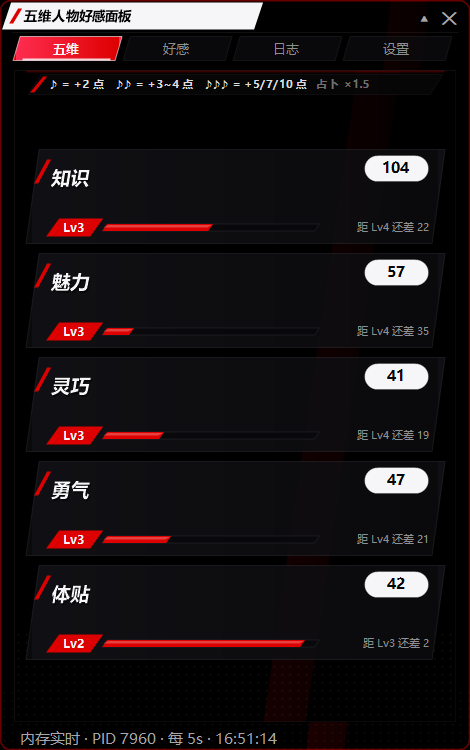
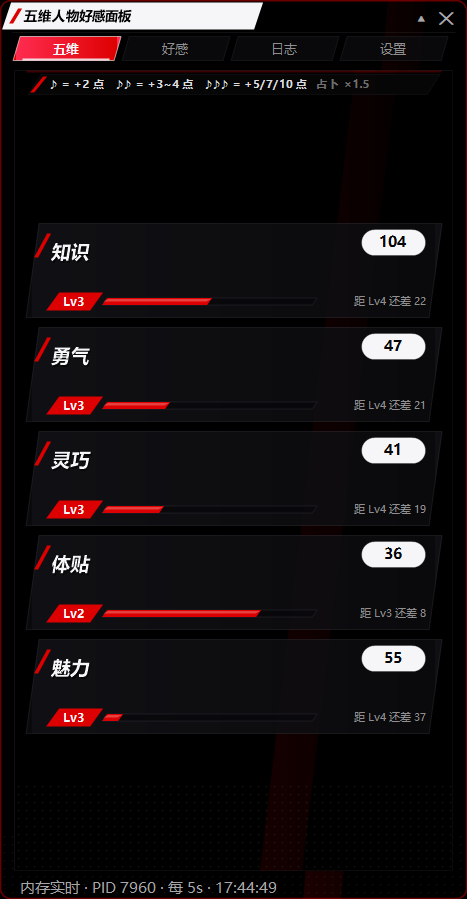
五维按游戏菜单顺序显示（知识/勇气/灵巧/体贴/魅力）
- 内存顺序是 [知识, 魅力, 灵巧, 勇气, 体贴]，与菜单顺序不同
- 新增 GameTables.StatDisplayOrder = {0,3,2,4,1}，只作用于 OnPaint 的排列
- 读数据/阈值/等级仍按内存下标，不重新引入错位
- Python 三份脚本同步加 ORDER 表；顺带修正 p5r_stats_save.py 里 NAMES_EN 的旧顺序
- 文档补充说明：显示顺序与数据下标分离的做法

diff --git a/tools/p5r_stats_save.py b/tools/p5r_stats_save.py
@@ -16,7 +16,10 @@ STAT_OFFSET = 0x139E0
 
 # 内存/存档顺序：[知识, 魅力, 灵巧, 勇气, 体贴]
 NAMES = ["知识", "魅力", "灵巧", "勇气", "体贴"]
-NAMES_EN = ["Knowledge", "Kindness", "Proficiency", "Guts", "Charm"]
+NAMES_EN = ["Knowledge", "Charm", "Proficiency", "Guts", "Kindness"]
+# 游戏菜单里的显示顺序（知识/勇气/灵巧/体贴/魅力），值为NAMES的下标。
+# 只影响打印排列，读数据仍按内存下标。
+ORDER = [0, 3, 2, 4, 1]
 THRESHOLDS = [
     [0, 34, 82, 126, 192],
     [0, 6, 52, 92, 132],
@@ -113,13 +116,14 @@ def main():
     print()
     print("P5R 五维查看器   存档目录：" + root)
     print("=" * 96)
-    header = f"{'存档':<8}{'保存时间':<14}" + "".join(f"{c:<14}" for c in NAMES)
+    header = f"{'存档':<8}{'保存时间':<14}" + "".join(f"{NAMES[i]:<14}" for i in ORDER)
     print(header)
     print("-" * 96)
     for r in rows:
         t = time.strftime("%m-%d %H:%M", time.localtime(r["mtime"]))
         line = f"{r['slot']:<8}{t:<14}"
-        for i, v in enumerate(r["values"]):
+        for i in ORDER:
+            v = r["values"][i]
             lv = level_of(i, v)
             line += f"{v}(Lv{lv})".ljust(14)
         print(line)
@@ -129,7 +133,8 @@ def main():
     latest = rows[0]
     print()
     print(f"最新存档 {latest['slot']} 详细：")
-    for i, v in enumerate(latest["values"]):
+    for i in ORDER:
+        v = latest["values"][i]
         print(f"  {NAMES[i]}({NAMES_EN[i]})  {v:3d} 点   Lv{level_of(i, v)}   {next_gap(i, v)}")
     print()
 
@@ -142,12 +147,14 @@ def main():
         for r in rows:
             t = time.strftime("%Y-%m-%d %H:%M", time.localtime(r["mtime"]))
             line = f"{r['slot']:<8}{t:<18}"
-            for i, v in enumerate(r["values"]):
+            for i in ORDER:
+                v = r["values"][i]
                 line += f"{v}(Lv{level_of(i, v)})".ljust(14)
             f.write(line + "\n")
         f.write("-" * 96 + "\n\n")
         f.write(f"最新存档 {latest['slot']} 详细：\n")
-        for i, v in enumerate(latest["values"]):
+        for i in ORDER:
+            v = latest["values"][i]
             f.write(f"  {NAMES[i]}({NAMES_EN[i]})  {v:3d} 点   Lv{level_of(i, v)}   {next_gap(i, v)}\n")
     print(f"报告已写入：{out}")
 

diff --git a/tools/p5r_stats_coop.py b/tools/p5r_stats_coop.py
@@ -25,6 +25,9 @@ COOP_COUNT = 26
 # 内存/存档顺序：[知识, 魅力, 灵巧, 勇气, 体贴]
 NAMES = ["知识", "魅力", "灵巧", "勇气", "体贴"]
 NAMES_EN = ["Knowledge", "Charm", "Proficiency", "Guts", "Kindness"]
+# 游戏菜单里的显示顺序（知识/勇气/灵巧/体贴/魅力），值为NAMES的下标。
+# 只影响打印排列，读数据仍按内存下标。
+ORDER = [0, 3, 2, 4, 1]
 THRESHOLDS = [
     [0, 34, 82, 126, 192],
     [0, 6, 52, 92, 132],
@@ -198,7 +201,8 @@ def main():
     print("=" * 78)
 
     print("\n【五维】")
-    for i, v in enumerate(cur["stats"]):
+    for i in ORDER:
+        v = cur["stats"][i]
         print(f"  {NAMES[i]} {NAMES_EN[i]:<12} {v:4d} 点   Lv{level_of(i, v)}   {gap_of(i, v)}")
 
     print("\n【Coop 羁绊】")
@@ -235,7 +239,8 @@ def main():
         f.write(f"P5R 存档 {cur['slot']}  " +
                 time.strftime("%Y-%m-%d %H:%M", time.localtime(cur["mtime"])) + "\n")
         f.write("=" * 78 + "\n\n【五维】\n")
-        for i, v in enumerate(cur["stats"]):
+        for i in ORDER:
+            v = cur["stats"][i]
             f.write(f"  {NAMES[i]} {NAMES_EN[i]:<12} {v:4d} 点   Lv{level_of(i, v)}   {gap_of(i, v)}\n")
         f.write("\n【Coop 羁绊】\n")
         for cid, rank, aff in coop:

diff --git a/tools/p5r_panel.py b/tools/p5r_panel.py
@@ -42,6 +42,9 @@ except Exception:                                    # pragma: no cover
 # ────────────────────────────────────────────────────────── 基础数据 ──
 # 内存/存档顺序：[知识, 魅力, 灵巧, 勇气, 体贴]
 STAT_NAMES = ["知识", "魅力", "灵巧", "勇气", "体贴"]
+# 游戏菜单里的显示顺序（知识/勇气/灵巧/体贴/魅力），值为上面名字表的下标。
+# 只影响打印排列，读数据仍按内存下标。
+STAT_ORDER = [0, 3, 2, 4, 1]
 STAT_EN = ["Knowledge", "Charm", "Proficiency", "Guts", "Kindness"]
 
 # 每级起点（0 级起点固定为 0），Lv1~Lv5
@@ -372,7 +375,7 @@ def render(stats, coop, headline, subnote, footer_lines, deltas=None, coop_delta
     # ── 五 维 ──
     total_lv = sum(stat_level(i, stats[i]) for i in range(5))
     out.append(section("五 维", f"总等级 {total_lv}/25"))
-    for i in range(5):
+    for i in STAT_ORDER:
         pts = stats[i]
         lv = stat_level(i, pts)
         nxt, gap = stat_next(i, pts)

diff --git a/tools/p5r_stats_live.py b/tools/p5r_stats_live.py
@@ -17,6 +17,9 @@ PROCESS_QUERY_INFORMATION = 0x0400
 # 内存/存档顺序：[知识, 魅力, 灵巧, 勇气, 体贴]
 NAMES = ["知识", "魅力", "灵巧", "勇气", "体贴"]
 NAMES_EN = ["Knowledge", "Charm", "Proficiency", "Guts", "Kindness"]
+# 游戏菜单里的显示顺序（知识/勇气/灵巧/体贴/魅力），值为NAMES的下标。
+# 只影响打印排列，读数据仍按内存下标。
+ORDER = [0, 3, 2, 4, 1]
 THRESHOLDS = [
     [0, 34, 82, 126, 192],
     [0, 6, 52, 92, 132],
@@ -188,7 +191,7 @@ def main():
                 lines.append("=" * 62)
                 lines.append(f" P5R 五维实时监视    {time.strftime('%H:%M:%S')}   Ctrl+C 退出")
                 lines.append("=" * 62)
-                for i in range(5):
+                for i in ORDER:
                     lines.append(f" {NAMES[i]} {NAMES_EN[i]:<12} {v[i]:4d}  Lv{level_of(i, v[i])}  "
                                  f"[{bar(v[i], i)}]  {gap_of(i, v[i])}")
                 lines.append("=" * 62)

diff --git a/src/P5ROverlay/Core/CoopTable.cs b/src/P5ROverlay/Core/CoopTable.cs
@@ -10,6 +10,11 @@ namespace P5ROverlay
         public static readonly string[] StatNames = { "知识", "魅力", "灵巧", "勇气", "体贴" };
         public static readonly string[] StatEn = { "Knowledge", "Charm", "Proficiency", "Guts", "Kindness" };
 
+        // 游戏菜单（STATUS / 五维画面）里的显示顺序是 [知识, 勇气, 灵巧, 体贴, 魅力]，
+        // 与内存顺序不同。这个数组存的是「显示位 → StatNames 下标」，
+        // 只作用于渲染时的排列，读数据仍按 StatNames 的下标走。
+        public static readonly int[] StatDisplayOrder = { 0, 3, 2, 4, 1 };
+
         /// <summary>Lv1~Lv5 的累计点数门槛（与 StatNames 同序）。</summary>
         public static readonly int[][] StatTh =
         {

diff --git a/src/P5ROverlay/UI/Pages.cs b/src/P5ROverlay/UI/Pages.cs
@@ -227,9 +227,12 @@ namespace P5ROverlay
             int padX = 12;
             int fullW = Math.Max(120, Width - padX * 2);
 
-            for (int i = 0; i < 5; i++)
+            // 按游戏菜单顺序排列（知识/勇气/灵巧/体贴/魅力），数据仍按内存下标取
+            var order = GameTables.StatDisplayOrder;
+            for (int d = 0; d < 5; d++)
             {
-                DrawStatRow(g, i, padX, startY + i * rowH, fullW, rowH - 6);
+                int i = (order != null && d < order.Length) ? order[d] : d;
+                DrawStatRow(g, i, padX, startY + d * rowH, fullW, rowH - 6);
             }
         }
 

diff --git a/docs/读取解析方法说明.md b/docs/读取解析方法说明.md
@@ -159,6 +159,12 @@ foreach (var a in hits) {
 > 这组「6 / 52 / 92 / 132」跟着索引 1 走，索引 1 被错命名成体贴，于是错位暴露出来。
 > 修正后 `CoopTable.cs` 里 `StatNames` 与 `StatTh` 严格同序，并且注释写明了内存顺序。
 
+> **渲染层单独解决排列问题**：数据按内存顺序读，界面却按游戏菜单顺序显示，
+> 两者靠 `GameTables.StatDisplayOrder = { 0, 3, 2, 4, 1 }` 连接，含义是
+> **「第 n 行显示哪一项」**（第 0 行显示下标 0 知识、第 1 行显示下标 3 勇气……）。
+> 这个数组只作用于 `StatPage.OnPaint` 的循环顺序，`_stats` / `StatTh` / `StatLevel`
+> 仍然用内存下标，所以错位不会重新出现。Python 版三份脚本用同样的 `ORDER` 表。
+
 ---
 
 ## 3. Coop：紧邻五维数组之前的定长数组
